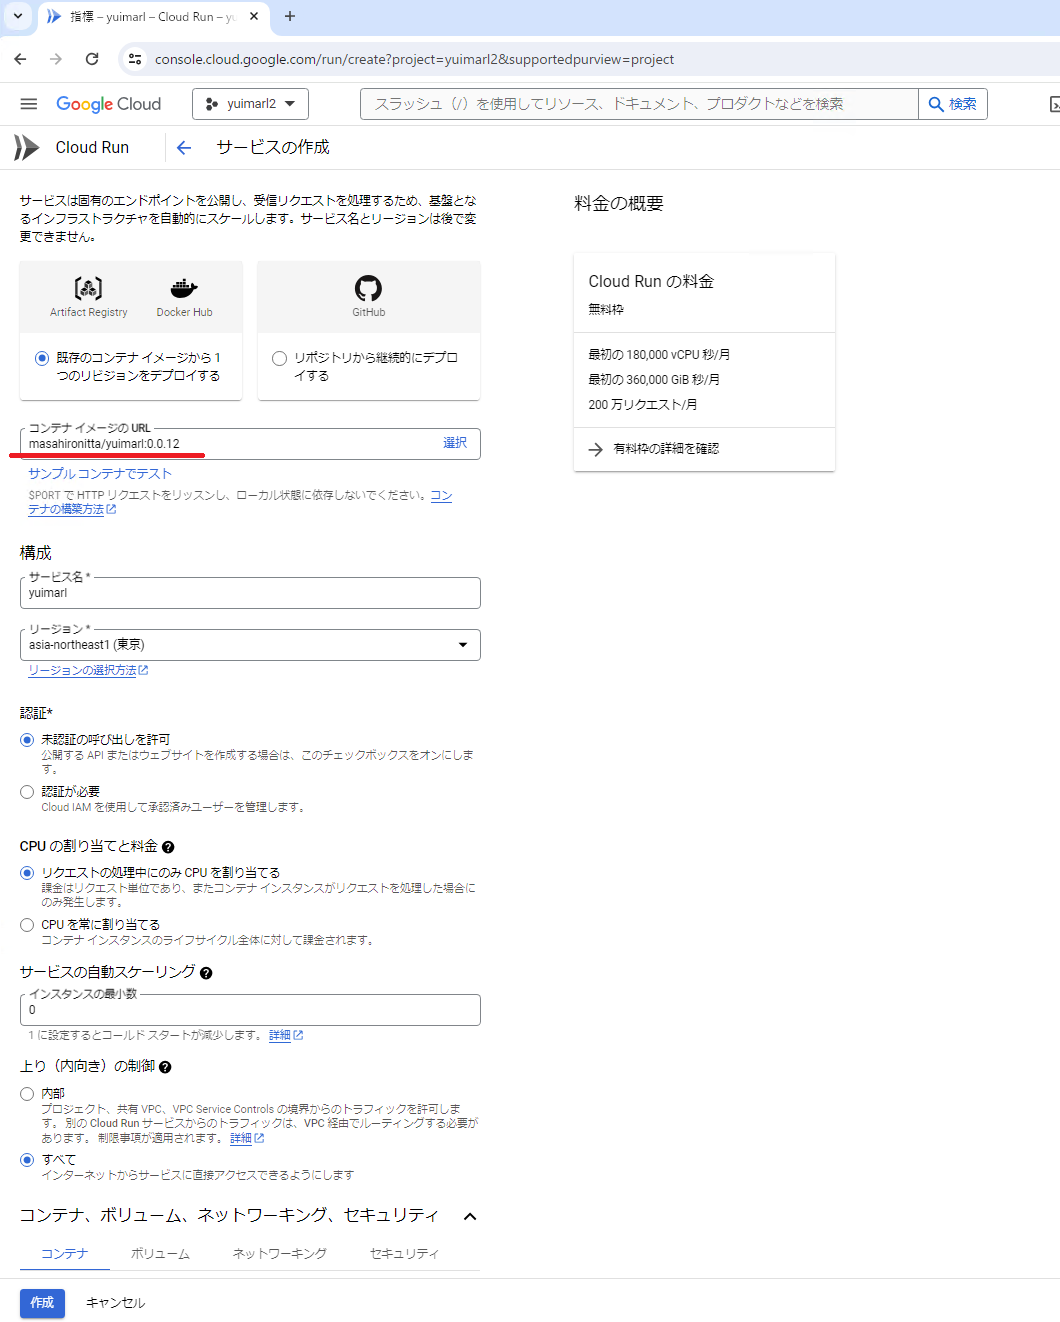
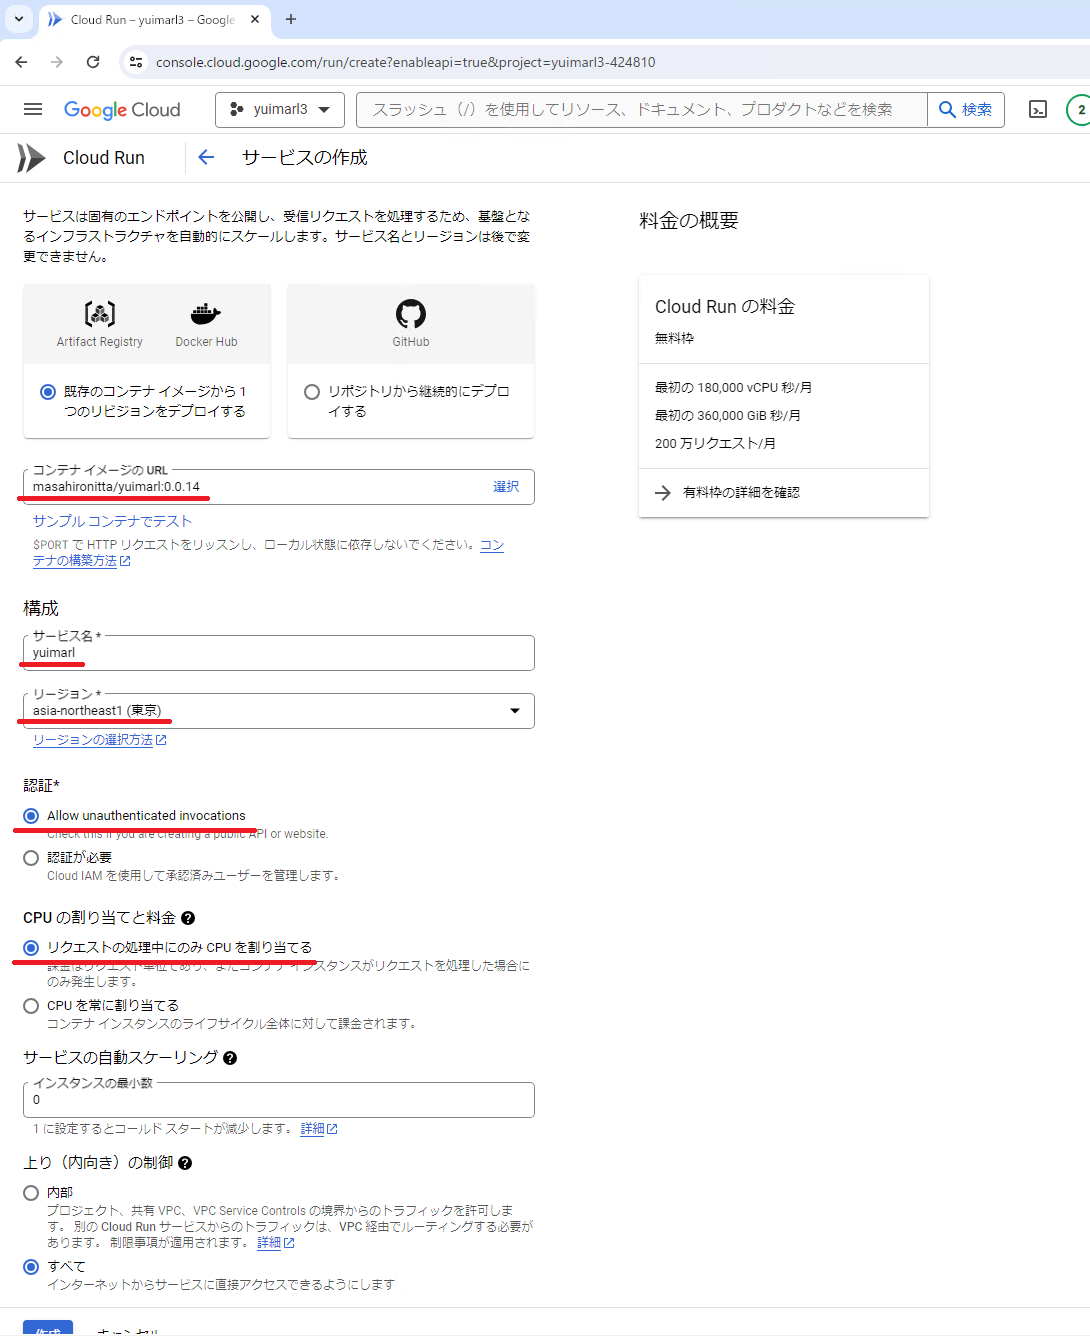
update

diff --git a/deploy.html b/deploy.html
@@ -72,7 +72,6 @@
                       <p>「新しいプロバイダを追加」をクリックします。<a href="images/screen14.png"><img class="border border-info border-1 img-fluid" src="images/screen14.png"></a></p>
                       <p>「Google」をクリックします。<a href="images/screen15.png"><img class="border border-info border-1 img-fluid" src="images/screen15.png"></a></p>
                       <p>「Google」を「有効にする」にし、サポートメールを選択して「保存」をクリックします。<a href="images/screen16.png"><img class="border border-info border-1 img-fluid" src="images/screen16.png"></a><br>必要に応じて、他のプロバイダも追加してください。</p>
-                      <p>本番環境として使う場合は、Authentication の「設定」の「承認済みドメイン」から、「localhost」を削除してください。<br>開発環境、テスト環境として使う場合は、「localhost」を残したままで大丈夫です。<a href="images/screen38.png"><img class="border border-info border-1 img-fluid" src="images/screen38.png"></a></p>
                       <p>「構築」の中の「Firestore Database」をクリックします。<a href="images/screen17.png"><img class="border border-info border-1 img-fluid" src="images/screen17.png"></a></p>
                       <p>「Cloud Firestore」の「データベースの作成」をクリックします。<a href="images/screen18.png"><img class="border border-info border-1 img-fluid" src="images/screen18.png"></a></p>
                       <p>ロケーションを選択して「次へ」をクリックします。<a href="images/screen19.png"><img class="border border-info border-1 img-fluid" src="images/screen19.png"></a></p>
@@ -86,16 +85,18 @@
                     <hr>
                     <section class="pb-2">
                       <h3 id="step03">Cloud Run を設定する</h3>
-                      <p>Google Cloud コンソールにログインして「プロジェクトの選択」をクリックします。<a href="images/screen26.png"><img class="border border-info border-1 img-fluid" src="images/screen26.png"></a></p>
+                      <p><a href="https://console.cloud.google.com">Google Cloud コンソール</a>にログインして「プロジェクトの選択」をクリックします。<a href="images/screen26.png"><img class="border border-info border-1 img-fluid" src="images/screen26.png"></a></p>
                       <p>作成済みのプロジェクトを選択します。<a href="images/screen27.png"><img class="border border-info border-1 img-fluid" src="images/screen27.png"></a></p>
-                      <p>「コンテナ化されたアプリの実行 Cloud Run」をクリックします。<a href="images/screen28.png"><img class="border border-info border-1 img-fluid" src="images/screen28.png"></a></p>
+                      <p>「すべてのプロダクトを表示」を選択します。<a href="images/screen44.png"><img class="border border-info border-1 img-fluid" src="images/screen44.png"></a></p>
+                      <p>「サーバーレス」の「Cloud Run」を選択します。<a href="images/screen45.png"><img class="border border-info border-1 img-fluid" src="images/screen45.png"></a></p>
                       <p>「サービスを作成」をクリックします。<a href="images/screen29.png"><img class="border border-info border-1 img-fluid" src="images/screen29.png"></a></p>
                       <p>「課金を有効にして Cloud Run の使用を継続します」画面が表示された場合は、「[お支払い]に移動」をクリックして支払いの設定を行います。<a href="images/screen30.png"><img class="border border-info border-1 img-fluid" src="images/screen30.png"></a></p>
                       <p>「サービスを作成」で次の画像のように設定します。<br>（&nbsp;「コンテナイメージのURL」は、Docker Hub に登録されている最新のイメージを設定します）<a href="images/screen31.png"><img class="border border-info border-1 img-fluid" src="images/screen31.png"></a>
-                        <div class="alert alert-primary" role="alert">現在の最新イメージは、「masahironitta/yuimarl:0.0.13」です。<br><a href="https://hub.docker.com/repository/docker/masahironitta/yuimarl/general" target="_blank">Yuimarl Docker Hub レジストリ</a></div>
+                        <div class="alert alert-primary" role="alert">現在の最新イメージは、<br><b>masahironitta/yuimarl:0.0.14</b><br>です。<br><a href="https://hub.docker.com/repository/docker/masahironitta/yuimarl/general" target="_blank">Yuimarl Docker Hub レジストリ</a></div>
                       </p>
-                      <p>「ヘルスチェックを追加します」をクリックして、「ライブネスチェック」と「HTTP」を選択し、パスに「/health」と入力し、「追加」をクリックします。<a href="images/screen43.png"><img class="border border-info border-1 img-fluid" src="images/screen43.png"></a></p>
-                      <p>「コンテナ、ボリューム、ネットワーキング、セキュリティ」の「コンテナ」の「変数とシークレット」に、「Firebase SDK の追加」で表示された firebaseConfig の値を追加して「作成」をクリックします。<a href="images/screen32.png"><img class="border border-info border-1 img-fluid" src="images/screen32.png"></a></p>
+                      <p>「コンテナ、ボリューム、ネットワーキング、セキュリティ」の「コンテナ」の「設定」にある「ヘルスチェックを追加します」をクリックします。<a href="images/screen48.png"><img class="border border-info border-1 img-fluid" src="images/screen48.png"></a></p>
+                      <p>「ライブネスチェック」と「HTTP」を選択し、パスに「/health」と入力し、「追加」をクリックします。<a href="images/screen43.png"><img class="border border-info border-1 img-fluid" src="images/screen43.png"></a></p>
+                      <p>「コンテナ、ボリューム、ネットワーキング、セキュリティ」の「コンテナ」の「変数とシークレット」に、下の表に従って環境変数を追加して「完了」をクリックします。<a href="images/screen32.png"><img class="border border-info border-1 img-fluid" src="images/screen32.png"></a></p>
                       <p>
                         <table class="table table-bordered">
                           <tr>
@@ -132,15 +133,26 @@
                           </tr>
                           <tr>
                             <td>RUST_LOG</td>
-                            <td>「debug」または「info」。出力されるログをdebugレベルとするかinfoレベルとするかの設定。</td>
+                            <td>「debug」または「info」。出力されるログをdebugレベルとするかinfoレベルとするかの設定する。</td>
+                          </tr>
+                          <tr>
+                            <td>DB_CHECK_PASSWORD</td>
+                            <td>データベースチェック(後述)を行う際に使用するパスワードを設定する。</td>
                           </tr>
                         </table>
                       </p>
-                      <p>サービスがデプロイされたら、URL にアクセスします。<a href="images/screen33.png"><img class="border border-info border-1 img-fluid" src="images/screen33.png"></a></p>
+                      <p>「作成」をクリックします。<a href="images/screen46.png"><img class="border border-info border-1 img-fluid" src="images/screen46.png"></a></p>
+                      <p>Firebase コンソールの Authentication で、「設定」の「承認済みドメイン」で、「ドメインの追加」をクリックします。<a href="images/screen50.png"><img class="border border-info border-1 img-fluid" src="images/screen50.png"></a></p>
+                      <p>Cloud Run の URL に表示されたドメインを入力して、「追加」をクリックします。<a href="images/screen51.png"><img class="border border-info border-1 img-fluid" src="images/screen51.png"></a></p>
+                      <p>本番環境として使う場合は、Authentication の「設定」の「承認済みドメイン」から、「localhost」を削除してください。<br>開発環境、テスト環境として使う場合は、「localhost」を残したままで大丈夫です。<a href="images/screen38.png"><img class="border border-info border-1 img-fluid" src="images/screen38.png"></a></p>
+                      <p>Cloud Run の URL にアクセスします。<a href="images/screen33.png"><img class="border border-info border-1 img-fluid" src="images/screen33.png"></a></p>
                       <p>Yuimarl ログイン画面でログインします。<a href="images/screen34.png"><img class="border border-info border-1 img-fluid" src="images/screen34.png"></a></p>
-                      <p>Yuimarl の操作中に、次のようなエラー画面が表示されることがあります。これは、データベースのインデックスが作成されていない場合のエラーです。<br>「You can create it here: 」の次に表示されている URL（画像で選択してある部分）にアクセスすると、インデックスの作成画面になるので、そこでインデックスを作成することができます。<a href="images/screen35.png"><img class="border border-info border-1 img-fluid" src="images/screen35.png"></a></p>
+                      <p>利用規約画面で「同意する」を選択します。<a href="images/screen52.png"><img class="border border-info border-1 img-fluid" src="images/screen52.png"></a></p>
+                      <p>ブラウザでアクセス中の URL の最後を「/db_check」に置き換えると、データベースチェック画面に遷移します。<br>この画面の「DB_CHECK_PASSWORD」に、Cloud Run の環境変数に設定した「DB_CHECK_PASSWORD」の値を入力し、「実行」を選択します。<a href="images/screen53.png"><img class="border border-info border-1 img-fluid" src="images/screen53.png"></a></p>
+                      <p>次の画像のような画面が表示されます。これは、データベースのインデックスが作成されていない場合のエラーです。<br>表示されている URL にアクセスすると、インデックスの作成画面になるので、そこでインデックスを作成することができます。<a href="images/screen54.png"><img class="border border-info border-1 img-fluid" src="images/screen54.png"></a></p>
                       <p>次のような「インデックスの作成または更新」画面で「保存」をクリックするとインデックスが作成されます。<a href="images/screen36.png"><img class="border border-info border-1 img-fluid" src="images/screen36.png"></a></p>
                       <p>ステータスが「ビルド中...」から「有効」に変わったらインデックスが作成されました。<a href="images/screen37.png"><img class="border border-info border-1 img-fluid" src="images/screen37.png"></a></p>
+                      <p>再度、データベースチェック画面にアクセスすると、またインデックスが作成されていないメッセージが表示されますので、インデックスを作成してください。<br>これを、「チェックが正常に完了しました。」というメッセージが表示されるまで繰り返してください。このメッセージが表示されたら、ホーム画面に遷移して、Yuimarl を使用することができます。<a href="images/screen55.png"><img class="border border-info border-1 img-fluid" src="images/screen55.png"></a></p>
                     </section>
                   </section>
                 </section>

diff --git a/devsetup.html b/devsetup.html
@@ -66,13 +66,13 @@
                   <section class="pb-3">
                     <h3>.env の作成</h3>
                     <p>プロジェクトのルートフォルダに、「.env.template」というファイルがあるので、それをコピーして、「.env」というファイルを作成してください。</p>
-                    <p>「.env」に、運用環境構築の「Firebase SDK の追加」で表示された「firebaseConfig」の内容を設定してください。</p><a href="images/screen39.png"><img class="border border-info border-1 img-fluid" src="images/screen39.png"></a>
+                    <p>「.env」に、運用環境構築で Cloud Run の環境変数に設定したのと同じ内容を設定してください。</p><a href="images/screen39.png"><img class="border border-info border-1 img-fluid" src="images/screen39.png"></a>
                   </section>
                   <hr>
                   <section class="pb-3">
                     <h3>Yuimarl の起動</h3>
                     <p>次のコマンドで、Yuimarl を起動してください。</p><code>cargo run</code><br><br><a href="images/screen40.png"><img class="border border-info border-1 img-fluid" src="images/screen40.png"></a><br><br>
-                    <p>この画像のように表示されたら、Web ブラウザで、<a href="http://localhost:8080" target="_blank">http://localhost:8080</a>にアクセスすると、Yuimarl のログイン画面が表示されます。</p>
+                    <p>この画像のように表示されたら、Web ブラウザで、<a href="http://localhost:8080" target="_blank">http://localhost:8080</a>&nbsp;にアクセスすると、Yuimarl のログイン画面が表示されます。</p>
                     <p>停止するには、Ctrl + C キーを押します。</p>
                   </section><br><br>
                 </section>
